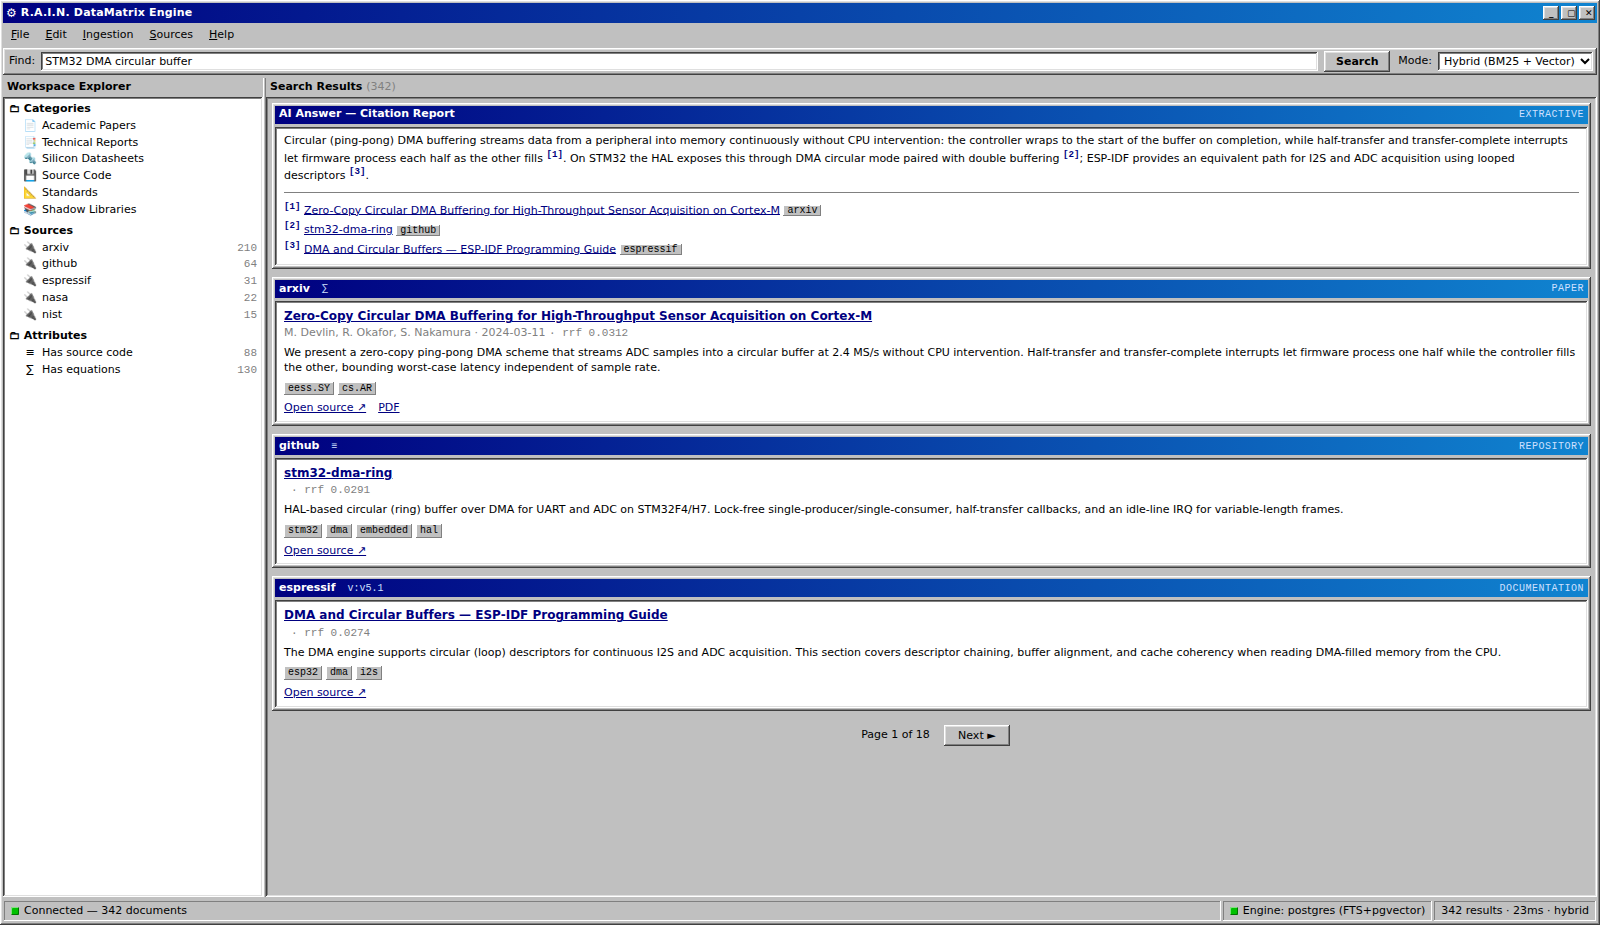
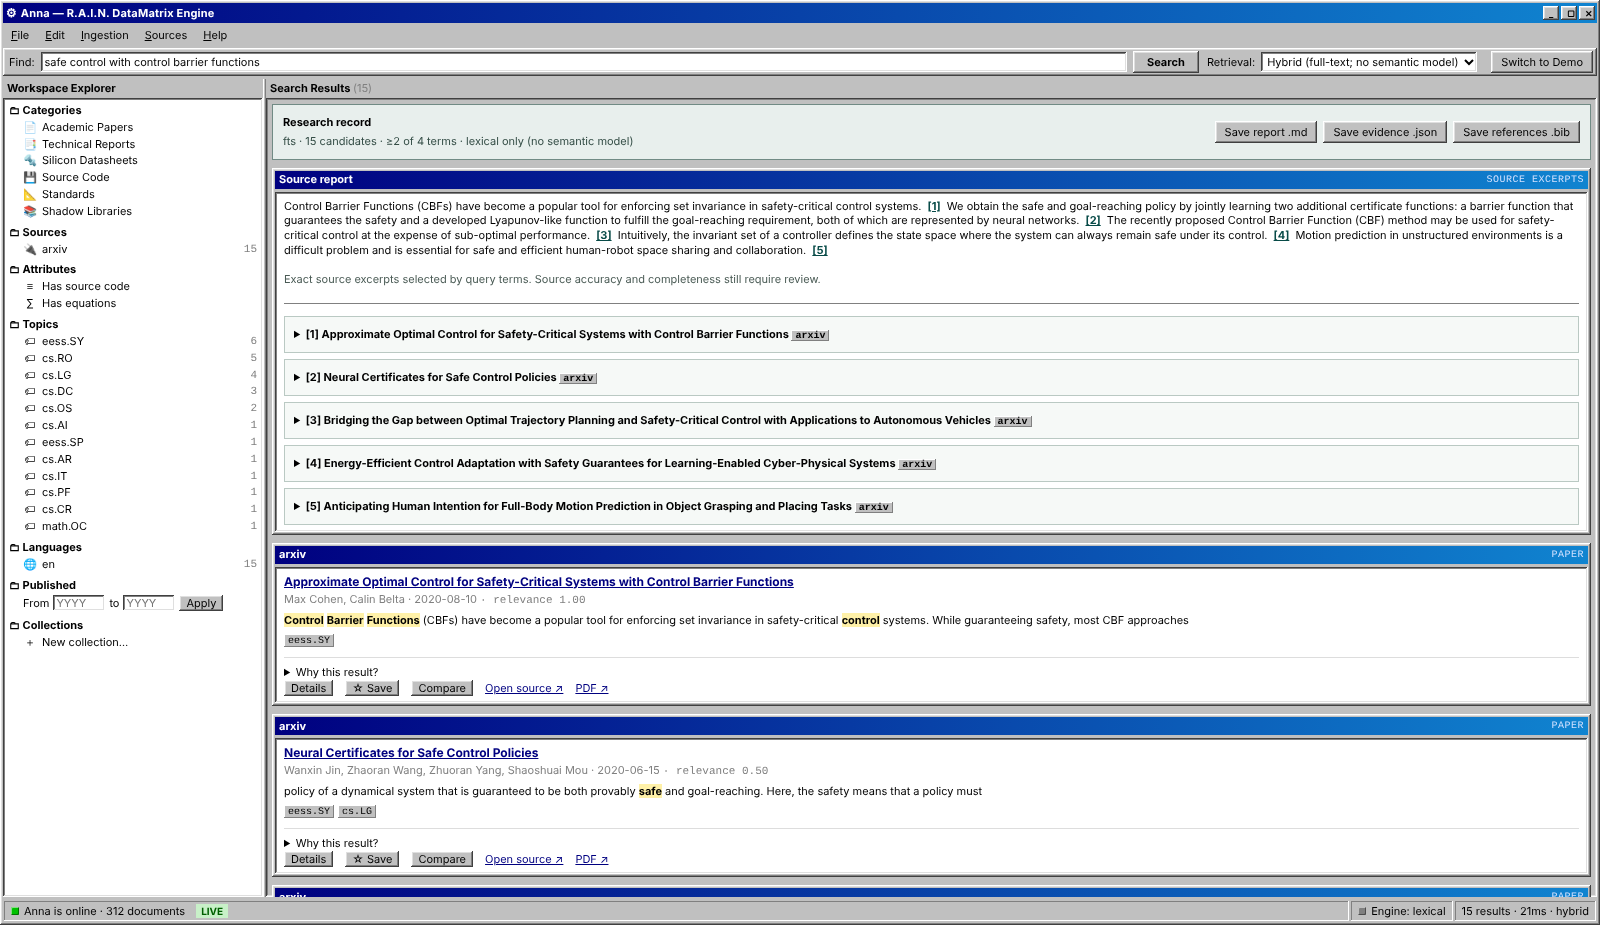
Show the workbench as it is in the README
The screenshot showed an interface that no longer exists — an "AI
Answer" panel, raw RRF scores, a "BM25 + Vector" mode the free tier
does not run — over invented sample documents. It is now the live
workbench answering "safe control with control barrier functions" from
the 312 real arXiv records of the judged corpus (CC0 metadata): topic
facets, the source report of exact quoted excerpts with citations, and
ranked papers with their 0-1 relevance and matched terms. The caption
says what is on it.

Claude-Session: https://claude.ai/code/session_01RBAqY418YZw21R5qVZPbcF

diff --git a/README.md b/README.md
@@ -19,7 +19,7 @@ paper search remains available under `/legacy`.
 
 </div>
 
-![The R.A.I.N. DataMatrix Engine workspace — a hybrid query over engineering corpora, with faceted sources in the Workspace Explorer and a citation-first answer](docs/screenshot.png)
+![The Anna workbench answering "safe control with control barrier functions" from 312 real arXiv records: topic facets in the Workspace Explorer, a source report quoting the exact matching sentences with numbered citations, and ranked papers with their matched terms highlighted](docs/screenshot.png)
 
 ## How it works, in 1 min
 
